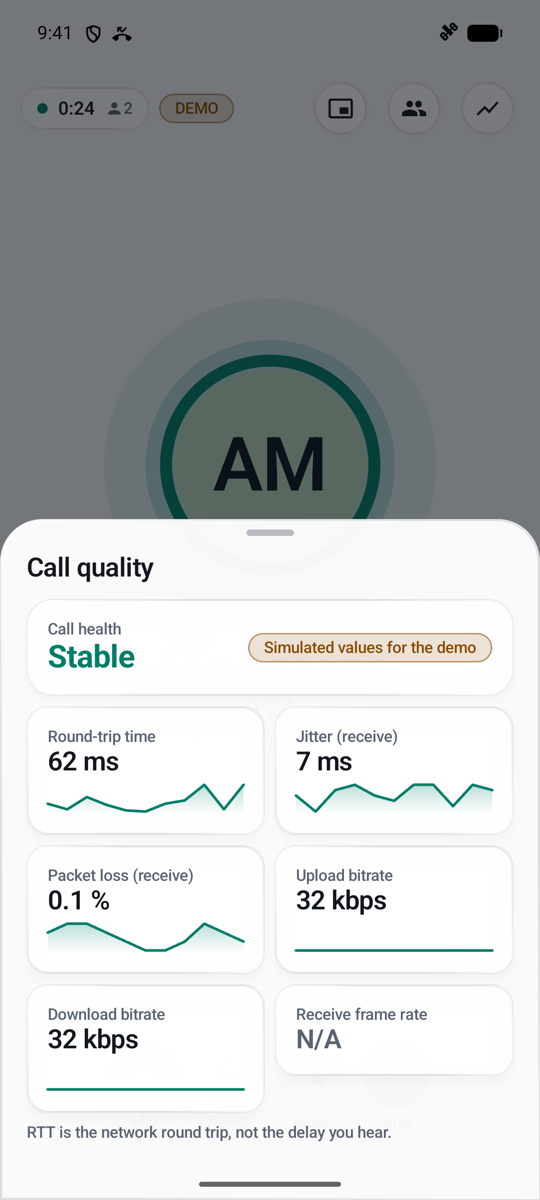
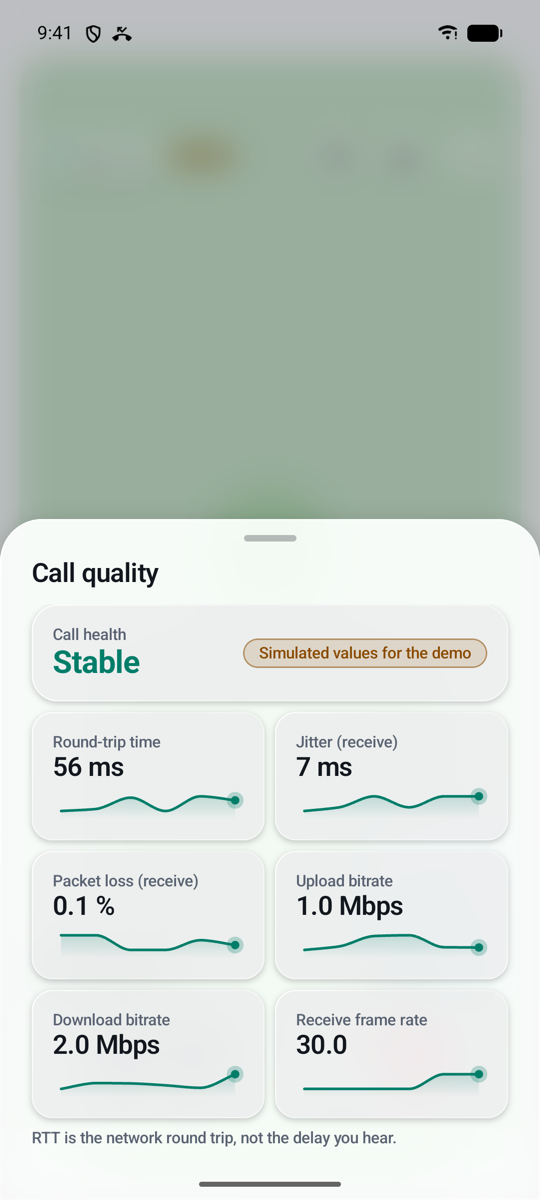
docs: README 화면을 Kinetica 적용 뒤 화면으로 다시 찍음, 음성 통화 시간도 숫자 굴림

diff --git a/voxera-ui-compose/src/main/kotlin/com/naury/voxerartc/ui/room/RoomStage.kt b/voxera-ui-compose/src/main/kotlin/com/naury/voxerartc/ui/room/RoomStage.kt
@@ -1,5 +1,6 @@
 package com.naury.voxerartc.ui.room
 
+import com.naury.kinetica.ui.RollingText
 import com.naury.voxerartc.ui.theme.enterOnAppear
 import androidx.compose.animation.AnimatedContent
 import androidx.compose.animation.fadeIn
@@ -525,7 +526,7 @@ internal fun VoiceStage(participants: List<Participant>, elapsed: String, status
                     Spacer(Modifier.height(gap))
                     Text(focus.displayName, color = VoxeraTheme.colors.foreground, style = VoxeraTheme.typography.display, textAlign = TextAlign.Center, modifier = Modifier.enterOnAppear(1))
                     Spacer(Modifier.height(VoxeraSpacing.xxs))
-                    Text(elapsed, color = VoxeraTheme.colors.primary, style = VoxeraTheme.typography.title, modifier = Modifier.enterOnAppear(2))
+                    RollingText(elapsed, style = VoxeraTheme.typography.title.copy(color = VoxeraTheme.colors.primary), modifier = Modifier.enterOnAppear(2))
                     if (status != null) {
                         Spacer(Modifier.height(VoxeraSpacing.xxs))
                         // 연결 상태가 바뀌면 문구가 서서히 바뀐다.

diff --git a/README.md b/README.md
@@ -23,8 +23,8 @@ Voxera는 Android 앱에 음성·영상 통화를 화면째로 붙이는 RTC SDK
   <tr>
     <td align="center" width="25%"><img src="docs/images/showcase-home.png" width="200" alt="홈"><br><b>홈</b><br>오프라인 쇼케이스</td>
     <td align="center" width="25%"><img src="docs/images/showcase-voice.png" width="200" alt="1:1 음성"><br><b>1:1 음성</b><br>말할 때 퍼지는 물결, 연결 상태</td>
-    <td align="center" width="25%"><img src="docs/images/showcase-group9-dark.png" width="200" alt="9인 그룹 크게 보기"><br><b>9인 그룹 (다크)</b><br>누른 사람 크게 보기</td>
-    <td align="center" width="25%"><img src="docs/images/showcase-quality.png" width="200" alt="통화 품질"><br><b>통화 품질</b><br>상태 요약과 추이 그래프</td>
+    <td align="center" width="25%"><img src="docs/images/showcase-group9-dark.png" width="200" alt="9인 그룹"><br><b>9인 그룹 (다크)</b><br>말하는 사람 빛 테두리, 손들기 알림</td>
+    <td align="center" width="25%"><img src="docs/images/showcase-quality.png" width="200" alt="통화 품질"><br><b>통화 품질</b><br>뒤 화면이 물러나는 시트, 추이 그래프</td>
   </tr>
 </table>
 
